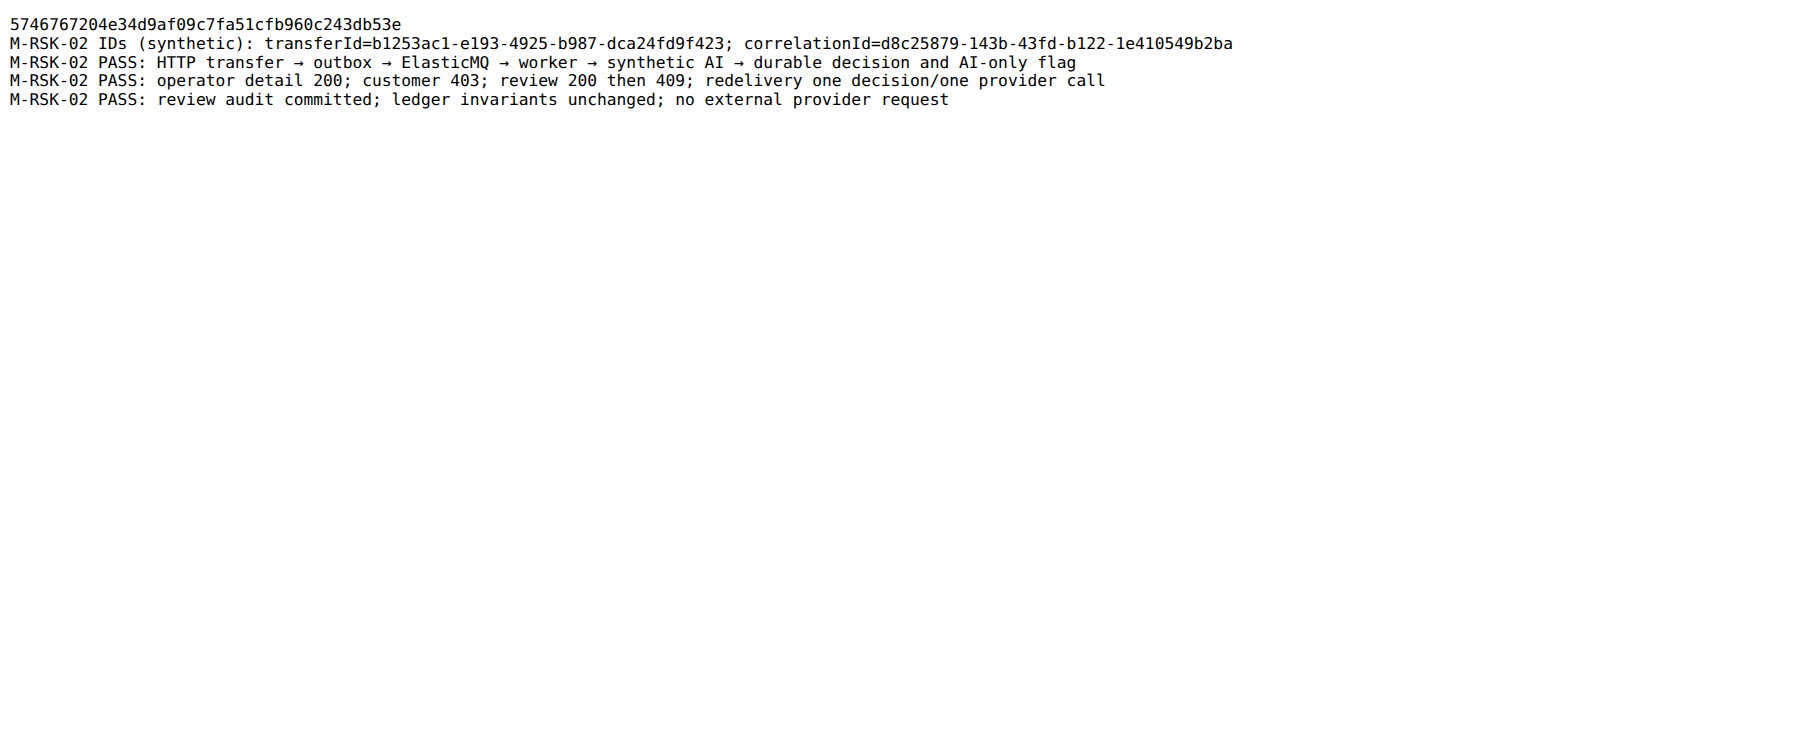
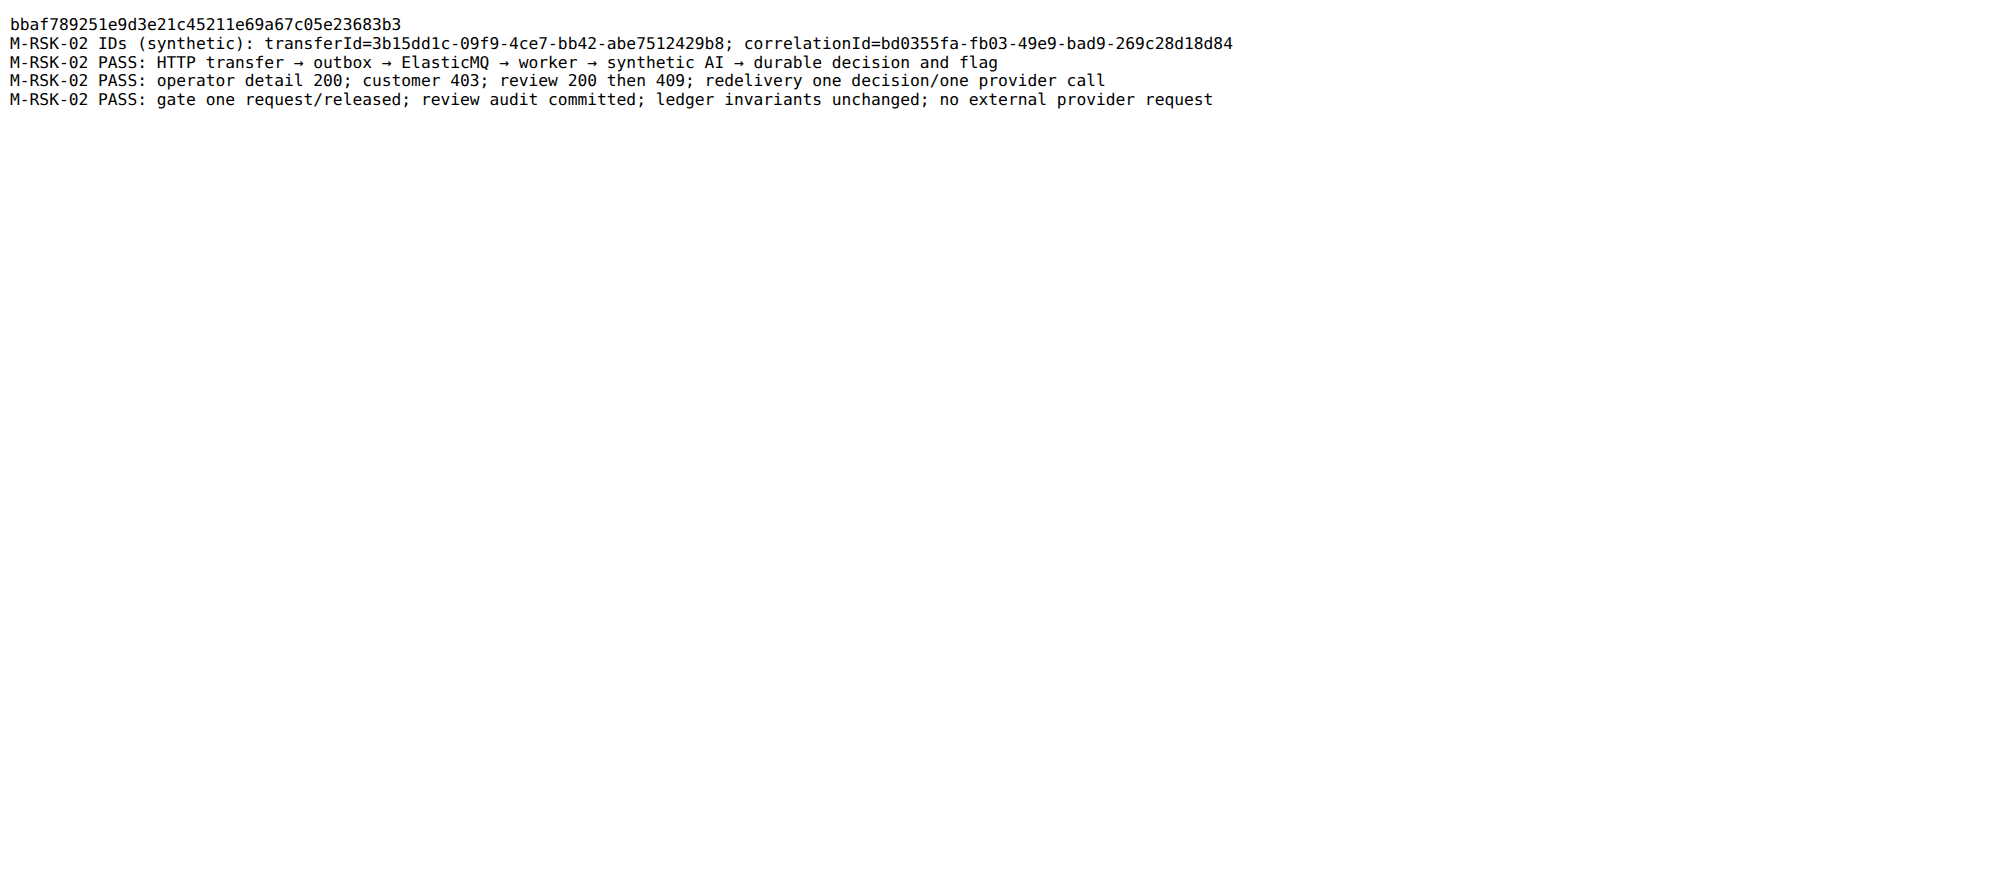
docs(risk): record live OpenAI verification

Changed region(s): [[0.0, 0.0, 0.6844, 0.1533]]

diff --git a/docs/BACKLOG.md b/docs/BACKLOG.md
@@ -35,7 +35,7 @@ Quy tắc:
 | BL-040 | ADR-14 đã được nhóm chấp nhận (2026-11-08) để thay phần học tham số/ONNX của ADR-08; còn lại việc cập nhật board phạm vi DBS-161/211–215 và chạy M-07 (người xác nhận trên guide OpenAI Decisions: GA, ZDR cho khách đủ điều kiện, giá input $0,10/1M token, output không tính phí) | [FRAUD-API-01](features/FRAUD-API-01-external-ai-decision.md#74-handoff-và-lộ-trình-implementation-kế-tiếp); [ADR-14](adr/0014-fraud-rules-external-ai.md) | Fraud, Dev review và người quản lý board | Một người mở guide OpenAI Decisions chạy M-07 và ghi kết quả vào ADR-14 hoặc feature doc; người quản lý cập nhật board |
 | BL-041 | Nhánh fraud đã bổ sung API UC-10 review một lần và provider offline, test synthetic và PostgreSQL; còn chờ CI, Dev review, merge và đối chiếu trên tập tune được bàn giao | [DBS-128](features/DBS-128-offline-features.md); [DBS-129/130](features/DBS-129-130-fraud-operator-api.md) | Fraud và Dev dataset/reviewer | PR được review, CI xanh, merge; parity được kiểm trên dữ liệu tune hợp lệ |
 | BL-042 | Contract operator: score là tổng chuẩn, hits chỉ R1–R6 và có thể rỗng khi AI-only, `aiAssessment` riêng và baseline null. API đã có test các trường hợp này; UI chưa xác nhận và không được tự cộng hits thành total | [DBS-129/130](features/DBS-129-130-fraud-operator-api.md) | Dev nhận API/giao diện risk, phối hợp Fraud | Dev nhận/xác nhận contract và test giao diện hiển thị tổng đúng |
-| BL-043 | Nhánh fraud đã nối worker với gate và loopback synthetic; còn smoke OpenAI thật bằng credential cấp an toàn, phê duyệt dữ liệu/điều khoản/egress, quota và alarm chi phí từ Ops. Không mặc định ZDR hoặc dừng tính phí khi abort | [RSK-02](features/RSK-02-durable-ai-gate.md); [ADR-14](adr/0014-fraud-rules-external-ai.md) | Fraud, data owner và Platform & Ops | Smoke thật trên synthetic; duyệt quyền, policy, secret, egress và cảnh báo trước rollout |
+| BL-043 | Nhánh fraud đã smoke OpenAI Decisions thật với dữ liệu tổng hợp qua worker và gate PostgreSQL; còn phê duyệt dữ liệu/điều khoản/egress, secret, quota và alarm chi phí từ Ops. Smoke không chứng minh chất lượng hoặc cho phép gửi dữ liệu thật; không mặc định ZDR hoặc dừng tính phí khi abort | [RSK-02](features/RSK-02-durable-ai-gate.md); [ADR-14](adr/0014-fraud-rules-external-ai.md) | Fraud, data owner và Platform & Ops | Duyệt quyền, policy, secret, egress và cảnh báo trước rollout |
 | BL-044 | Chưa có số đo B0/B1/B2 hoặc đánh giá chất lượng/vận hành cho API: tune/validation theo khách, holdout sau freeze một lần, provenance/capture, bootstrap, latency/fallback/coverage/cost, metric/alarm và P5 | [FRAUD-API-01](features/FRAUD-API-01-external-ai-decision.md#74-handoff-và-lộ-trình-implementation-kế-tiếp); [ADR-14](adr/0014-fraud-rules-external-ai.md#cách-kiểm-chứng-và-gate-bật-ai) | Fraud, Dev dataset/quality và Platform & Ops | Có dữ liệu và bằng chứng truy nguồn, đánh giá đầy đủ gate ADR-14 hoặc ghi no-go; không đọc generator/holdout sớm, không thay số đo thật bằng mock/replay latency |
 | BL-046 | Chính sách lỗi luật ở ADR-14 (Accepted): lỗi mã luật hoặc truy vấn feature thì rollback, không ack, vào DLQ sau các lần retry; khối `ai.*` hỏng bị chặn lúc tạo version và nếu vẫn lọt thì lưu `CONFIG_INVALID` rồi chấm tiếp R1–R6, không DLQ. Consumer [DBS-111](features/DBS-111-risk-scoring-consumer.md) đã đi đúng policy: lỗi luật/feature ném ra trong `prepare`, không ghi gì, retry rồi `PoisonMessageError` ở lần nhận thứ 5 (TC-111-09); khối `ai.*` hỏng ghi `CONFIG_INVALID` và chấm tiếp (TC-111-11a). Còn thiếu: chứng minh đường DLQ của lỗi luật trên queue thật và metric `risk_rule_error_total{rule}` (BL-051) | [ADR-14](adr/0014-fraud-rules-external-ai.md); [FRAUD-API-01](features/FRAUD-API-01-external-ai-decision.md) | Fraud và Dev consumer | Implementation chứng minh rollback, không ack, DLQ và đường `CONFIG_INVALID` trên PostgreSQL và queue thật; guide §5.6 và `references/fraud.md` đồng bộ lại |
 | BL-050 | Nội dung ADR-14 (đã Accepted 2026-11-08) ở tài liệu của vai khác chưa được owner xác nhận: threat model (T25), glossary docs/BRD.md, P2, dataset brief (cột khóa khách, số lời gọi trả phí trên tập tune). platform-infra, observability và load-tests chưa có nội dung cho secret, egress, metric AI và tải | [FRAUD-API-01](features/FRAUD-API-01-external-ai-decision.md) | Owner threat model/docs/BRD.md/P2, Dev dataset (#6), Platform & Ops | Từng owner xác nhận hoặc sửa ghi chú; #6 xác nhận cột khóa khách có trong CSV tune; platform-infra, observability, load-tests có nội dung hoặc ghi không áp dụng |
@@ -64,7 +64,7 @@ Quy tắc:
 | BL-152 | `RedisMetrics` đã có counter thật trên cả registry riêng và `defaultRegister`, và [DBS-144](features/DBS-144-sli-metrics-emf.md) xuất nó bằng CloudWatch EMF (`redis_fallback_total` với dimension `Role`); chưa có dashboard thật của api/worker. Riêng listener bù biên `opossum` `>=50%` (`redis.client.ts`) dùng `stats.fires` của `opossum`, có thể tăng cả khi fast-reject lúc breaker đã OPEN — chưa xác nhận mức ảnh hưởng thực tế tới thời điểm breaker mở lại đúng biên 5/10 | [DBS-76](features/DBS-76-redis-adapter.md) §6, §8 | Dev observability (metrics endpoint); Dev platform (xác nhận opossum `stats.fires`) | Metrics endpoint của api/worker xuất `redis_fallback_total` và dashboard đọc đúng counter; có test hoặc đọc mã nguồn `opossum` xác nhận `stats.fires` không làm lệch biên mở breaker khi caller retry liên tục lúc OPEN |
 | BL-160 | Cả 48 PR đã merge tới `aeee9c9` (2026-11-07) đều **không có review trên GitHub**; bấm merge không được tính là review (CONTRIBUTING §1.4). Thay cho 21 dòng "chờ review/merge" cũ (BL-020, 022, 025, 030, 052, 054, 057, 124, 126, 131, 134, 137, 139, 141, 142, 144, 149, 150, 151, 153 và phần review của BL-135). Danh sách sinh bằng `group-bl160.cjs`, nhóm theo danh sách đường tiền của skill. **Đường tiền (22):** #1, #2, #7, #8, #9, #10, #12, #13, #16, #17, #29, #33, #34, #35, #44, #46, #47, #48, #54, #56, #57, #61. **Code khác và skill (24):** #4, #5, #6, #11, #15, #18, #19, #20, #22, #23, #24, #25, #27, #30, #32, #36, #37, #38, #39, #41, #42, #43, #51, #52. **Chỉ docs (2):** #3, #28 (#28 có 0 file, được miễn). Gợi ý ngoài phạm vi: bật required approvals = 1 trên ruleset `main` (cùng chỗ với BL-012) để PR mới không lặp lại khoảng thiếu này | [CHORE-20261107-repo-audit](features/CHORE-20261107-repo-audit.md) §2.1 câu 1, [group-bl160.cjs](features/screenshots/CHORE-20261107-repo-audit/group-bl160.cjs), [check-backlog.cjs](features/screenshots/CHORE-20261107-repo-audit/check-backlog.cjs) | Dev (mỗi PR một Dev review, ưu tiên nhóm đường tiền) | Mỗi PR trong danh sách (trừ #28) có một review trên GitHub (Approve, hoặc Comment kèm bảng TC đã kiểm) của một Dev không phải tác giả và không có commit trong PR; review sau khi merge vẫn tính; ai bấm merge không ảnh hưởng. Kiểm bằng `check-backlog.cjs`. Khi một PR đạt thì bỏ PR đó khỏi danh sách |
 | BL-161 | Hạ tầng cho nửa bất đồng bộ còn thiếu trong Terraform trên `main` (code relay và consumer thông báo đã chạy ở role worker). Hai queue và hai DLQ (redrive `maxReceiveCount = 5`, giữ 4 ngày) và quyền SQS tối thiểu cho worker đã có ở `envs/dev/base/sqs.tf` (DBS-73, đã apply vào `dev/base.tfstate`). Còn lại: (1) ECS service `worker` (`APP_ROLE=worker`, không cổng HTTP, cùng image) với security group riêng, ingress tới RDS và Redis (cùng BL-119), log group, biến `SQS_*_QUEUE_URL`; (2) role DB `dbs_worker` (script ở `infra/scripts/db-roles.sql`, BL-103); (3) alarm DLQ, tuổi outbox chưa gửi cũ nhất, tuổi message cũ nhất (BL-051, BL-117; docs/03 §14); (4) WAF (BL-037); (5) ECR `dbs-api` đang trống, chưa có image để chạy thử trên AWS. Không có (1) thì outbox trên AWS chỉ tích lũy sự kiện. | docs/03 §4, §10, §13, §14; [ADR-03](adr/0003-sync-transfer-async-outbox-sqs.md) | #5 Platform & Ops | `terraform apply` dựng được service worker; một lệnh chuyển tiền trên AWS làm xuất hiện log thông báo của worker; kill worker rồi bật lại, outbox được xả; message lỗi vào DLQ và alarm kêu |
-| BL-162 | Adapter AI độc lập FRAUD-API-02 đã đồng bộ contract (`toAiFeatureInput`, `resolveDecisionAiStatus`) và ADR-14 đã được nhóm chấp nhận; còn lại việc nối adapter vào consumer risk trong worker, xác nhận quyền dữ liệu/quota vận hành và benchmark | [FRAUD-API-02](features/FRAUD-API-02-standalone-risk.md#82-đối-chiếu-và-bàn-giao); BL-040/042/043/044/050 | Fraud, Dev risk và Platform & Ops | Dev tích hợp adapter vào consumer risk qua task riêng; điều kiện dữ liệu/Ops và gate ADR-14 được duyệt hoặc ghi no-go; CI và Dev review PR hoàn tất |
+| BL-162 | Nhánh RSK-02 đã nối adapter vào consumer risk và smoke OpenAI thật với dữ liệu tổng hợp; còn CI, Dev review, merge, xác nhận quyền dữ liệu/quota vận hành và benchmark | [FRAUD-API-02](features/FRAUD-API-02-standalone-risk.md#82-đối-chiếu-và-bàn-giao); [RSK-02](features/RSK-02-durable-ai-gate.md); BL-040/042/043/044/050 | Fraud, Dev risk và Platform & Ops | PR tích hợp được review và merge; điều kiện dữ liệu/Ops và gate ADR-14 được duyệt hoặc ghi no-go |
 | BL-113 | DBS-73: managed policy `dbs-dev-worker-sqs` (output `worker_sqs_policy_arn`) chưa gắn role nào vì chưa có role task worker (DoD 2 đạt một phần). Queue policy chặn api so theo tên role `dbs-dev-api-task`: đổi tên role thì phải sửa `envs/dev/base/sqs.tf` | [DBS-73](features/DBS-73-terraform-sqs.md) §8 | #5 Platform & Ops (DBS-120) | Role task worker có policy gắn qua `terraform_remote_state`; role api vẫn không có quyền SQS và tên role khớp queue policy |
 | BL-114 | DBS-73: `SQS_RISK_QUEUE_URL`, `SQS_NOTIFICATION_QUEUE_URL` chưa vào task definition worker (chưa có service worker; DoD 3 đạt một phần). Lấy từ output `sqs_risk_queue_url`, `sqs_notification_queue_url` của `base`, không đặt `SQS_ENDPOINT` trên AWS | [DBS-73](features/DBS-73-terraform-sqs.md) §8 | #5 Platform & Ops (DBS-121) | Task definition worker có hai biến, worker nhận được message trên AWS |
 | BL-115 | DBS-73: consumer phải tự gửi message sai schema vào DLQ (event-contract "Quy tắc"), nhưng `sqs.config.ts` chưa có biến URL DLQ. Output có sẵn: `sqs_risk_dlq_url`, `sqs_notification_dlq_url`; policy worker đã cho `sqs:SendMessage` trên DLQ | [DBS-73](features/DBS-73-terraform-sqs.md) §8 | Dev (DBS-77, DBS-90) | Có biến DLQ trong config, consumer đẩy message sai schema vào DLQ, task definition worker có biến (cùng BL-114) |
